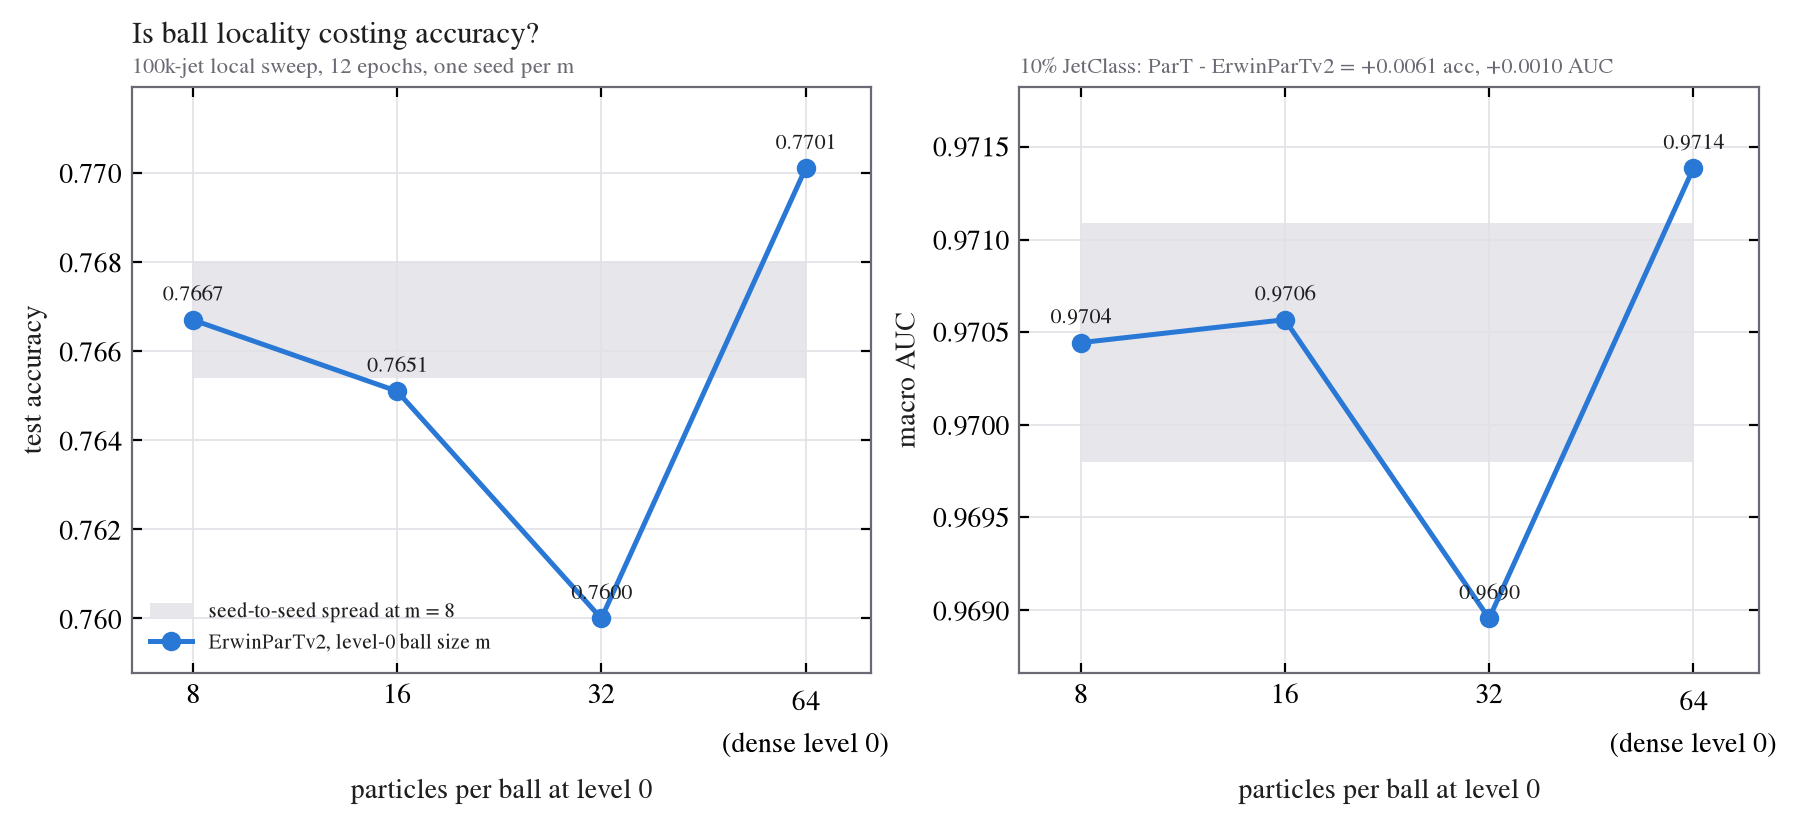
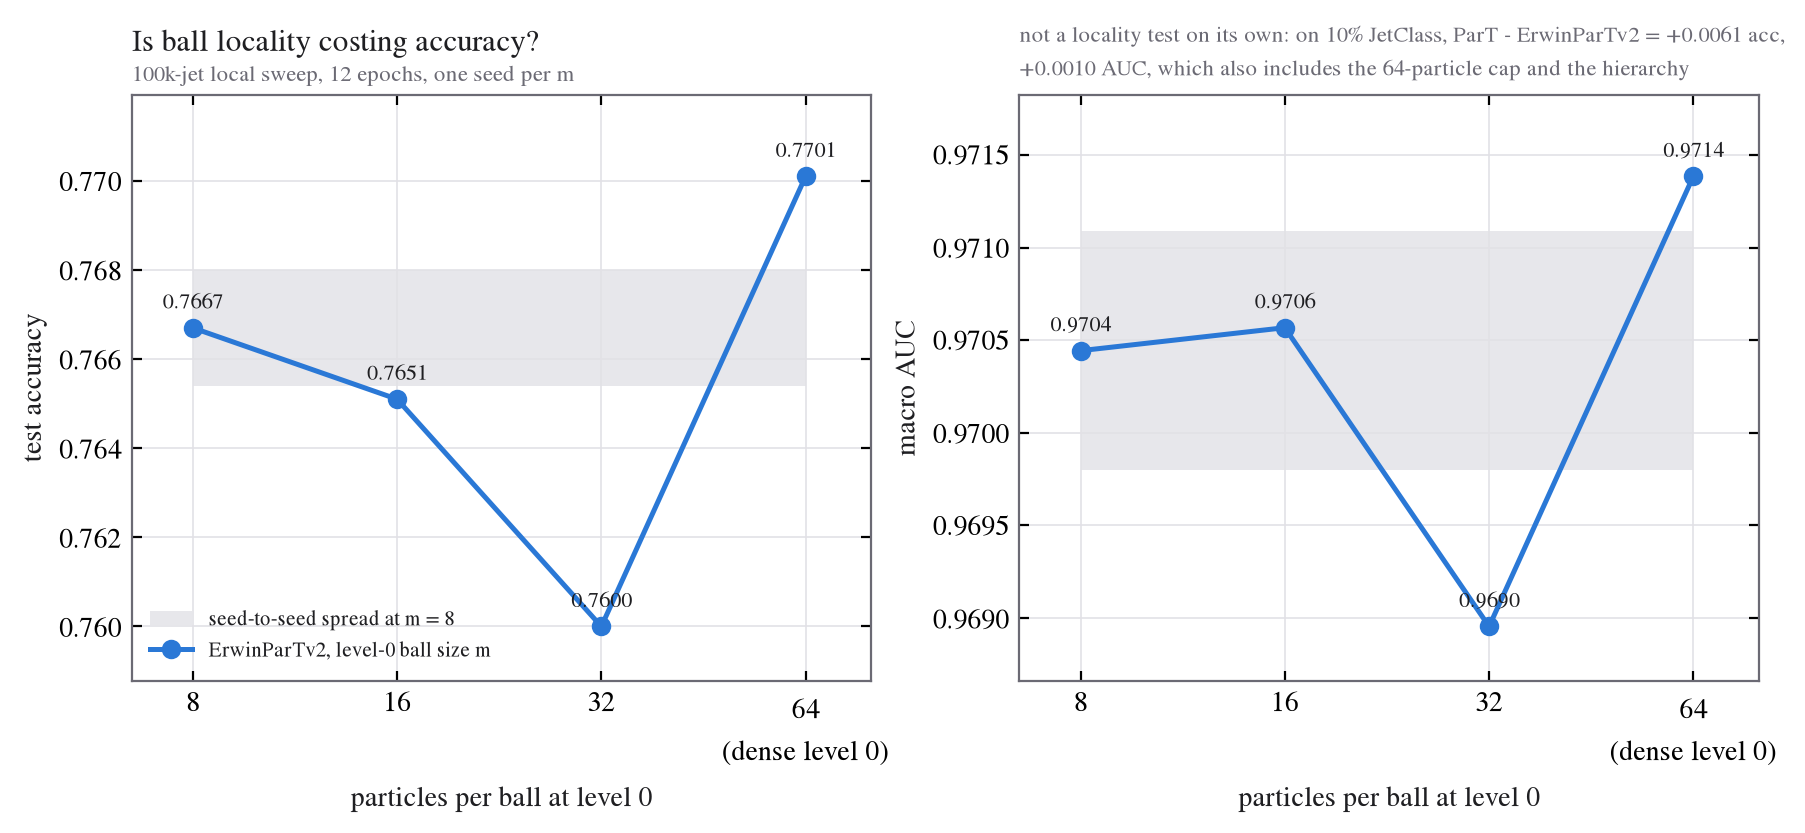
Fix three issues found re-verifying the new-model results
An independent re-check (fresh code recomputing every number from the raw
JSON, and weaver's own per-class test accuracy against eval_runs.py, which
agree to 5e-6) passed 42 of 43 checks. Fixed:

- benchmark_comparison.md per-class ratio table: H->gg 0.91 -> 0.90 and
  W->qq' 0.93 -> 0.92 (divided rounded values); bold now marks only the two
  well-measured losses, H->gg and H->4q.
- benchmark_comparison.md per-run table: Lund run a ran in 4 attempts, so
  its GPU is "mixed (last part L40)", not "L40".
- locality.png: the subtitle presented ParT - ErwinParTv2 (+0.0061) under
  "Is ball locality costing accuracy?"; it now says that gap also includes
  the 64-particle cap and the hierarchy, so it is not a locality test.

Claude-Session: https://claude.ai/code/session_01NYCsdky5RopyiTFLZWmxnj

diff --git a/tests/plot_cluster_comparison.py b/tests/plot_cluster_comparison.py
@@ -409,7 +409,8 @@ def plot_locality(runs):
     if v2 and part:
         d_acc = mean_of(part, lambda r: r["accuracy"]) - mean_of(v2, lambda r: r["accuracy"])
         d_auc = mean_of(part, lambda r: r["auc_macro"]) - mean_of(v2, lambda r: r["auc_macro"])
-        note = f"10% JetClass: ParT - ErwinParTv2 = {d_acc:+.4f} acc, {d_auc:+.4f} AUC"
+        note = (f"not a locality test on its own: on 10% JetClass, ParT - ErwinParTv2 = {d_acc:+.4f} acc,\n"
+                f"{d_auc:+.4f} AUC, which also includes the 64-particle cap and the hierarchy")
     else:
         note = "10% JetClass ParT vs ErwinParTv2: ParT run not finished yet"
     titled(axes[1], "", note)

diff --git a/plots/new_comparison_plots/benchmark_comparison.md b/plots/new_comparison_plots/benchmark_comparison.md
@@ -36,7 +36,7 @@ arithmetic means.
 | --- | --- | --- | --- | --- | --- | --- | --- | --- | --- | --- | --- | --- |
 | ErwinParTv2, run a | RTX 4090 | 0.8328 | 0.9833 | 6667 | 1887 | 96 | 712 | 2151 | 8333 | 5714 | 341 | 258 |
 | ErwinParTv2, run b | L40 | 0.8333 | 0.9834 | 6667 | 2083 | 95 | 738 | 2222 | 10000 | 6061 | 328 | 258 |
-| ErwinParTv2 + Lund, run a | L40 | 0.8325 | 0.9832 | 7143 | 1835 | 96 | 697 | 1980 | 7407 | 5000 | 345 | 253 |
+| ErwinParTv2 + Lund, run a | mixed (last part L40) | 0.8325 | 0.9832 | 7143 | 1835 | 96 | 697 | 1980 | 7407 | 5000 | 345 | 253 |
 | ParT, same budget | mixed (last part RTX 3090) | 0.8392 | 0.9843 | 7143 | 2174 | 106 | 909 | 2857 | 11111 | 7692 | 362 | 266 |
 
 ## ErwinParTv2 relative to ParT (same budget)
@@ -45,7 +45,7 @@ Background rejection of ErwinParTv2 (mean of 2 runs) divided by ParT's:
 
 | H→bb̄ | H→cc̄ | H→gg | H→4q | H→ℓνqq′ | t→bqq′ | t→bℓν | W→qq′ | Z→qq̄ |
 | --- | --- | --- | --- | --- | --- | --- | --- | --- |
-| 0.93 | 0.91 | 0.91 | **0.80** | **0.77** | 0.82 | **0.77** | 0.93 | 0.97 |
+| 0.93 | 0.91 | **0.90** | **0.80** | 0.77 | 0.82 | 0.77 | 0.92 | 0.97 |
 
 Overall, ErwinParTv2 keeps **99.3% of ParT's accuracy** (0.8330 against 0.8392,
 −0.61 points) and **99.9% of its AUC** (−0.0010).
